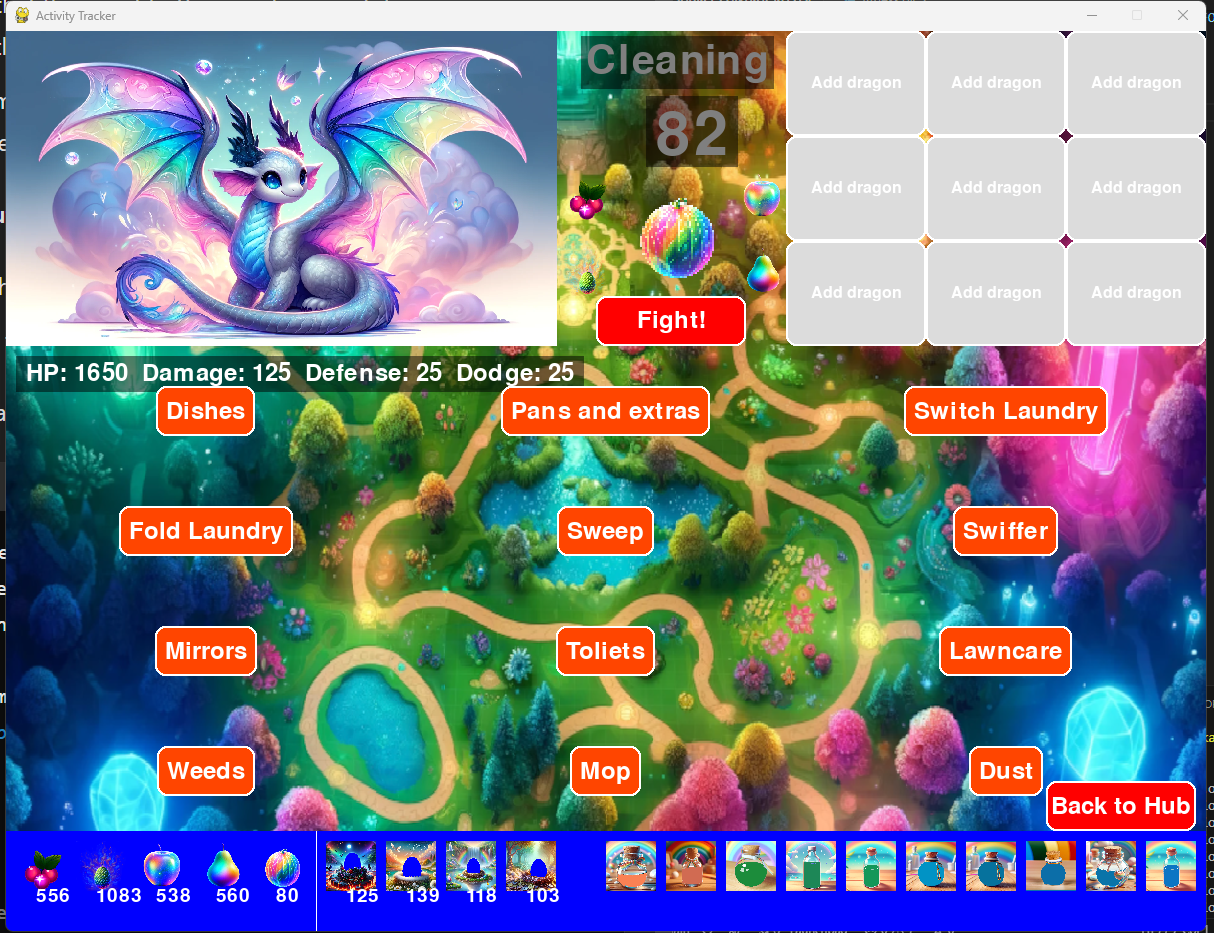
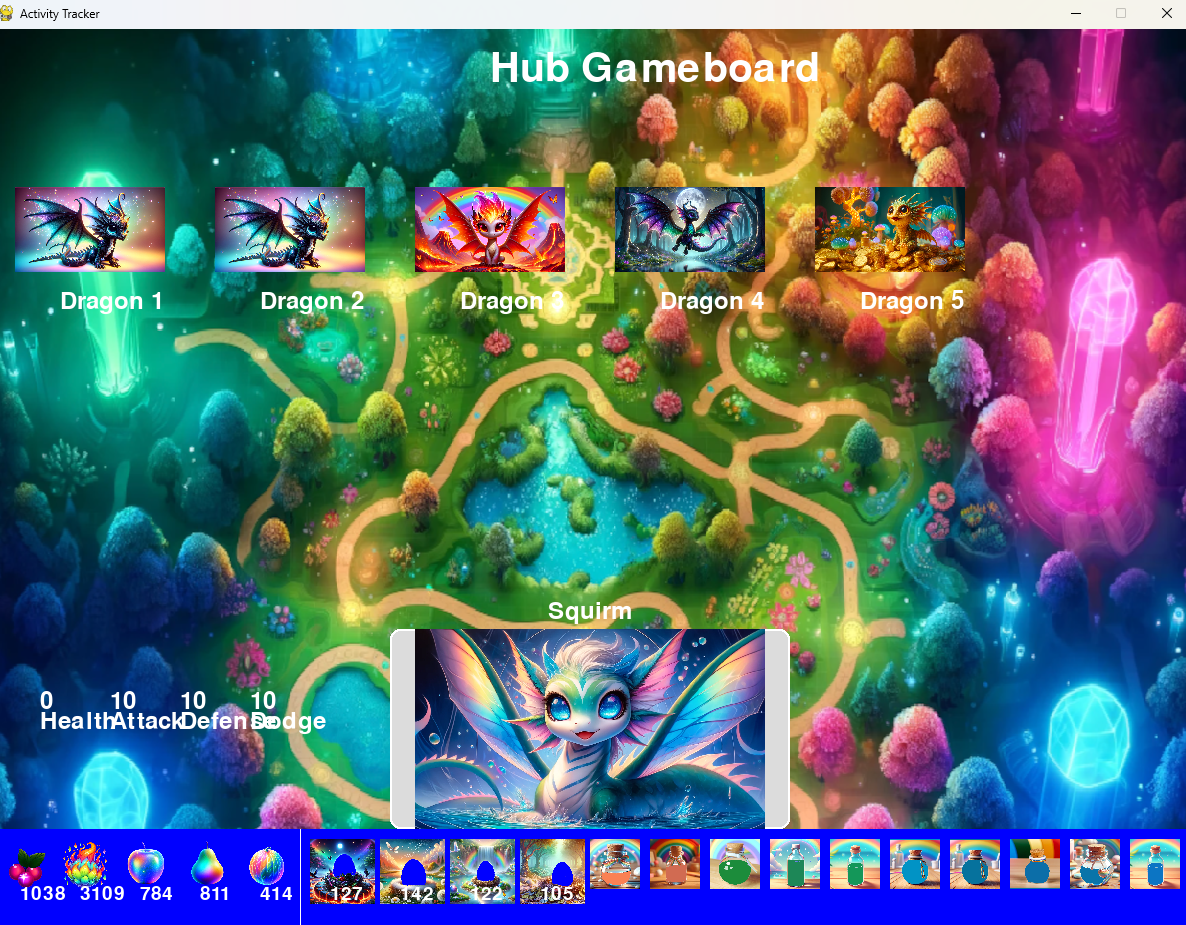
upgrade stats show up

diff --git a/fitness.py b/fitness.py
@@ -51,6 +51,8 @@ category_font = pygame.font.Font(None, 60)  # Larger font for category word
 token_font = pygame.font.Font(None, 90)  # Much larger font for player token count
 small_font = pygame.font.Font(None, 36)  # Smaller font for button text
 
+selected_dragon_for_upgrade = None  # Global variable to store the selected dragon
+
 def connect_db(db_name='save.db'):
     db_path = os.path.join(os.path.dirname(__file__), db_name)
     conn = sqlite3.connect(db_path)
@@ -71,8 +73,6 @@ def complete_daily_quest(quest_id):
     cursor.execute("UPDATE playerquests SET completed = 1, reset = date('now', '+1 day') WHERE ID = ?", (quest_id,))
     conn.commit()
     conn.close()
-
-
 
 def flag_dragon_aggressive(category):
     print(f"Category {category} is now aggressive!")
@@ -101,7 +101,6 @@ def load_boss_dragon_image(dragon_filename, max_height):
         logging.error(f"Error loading boss dragon image {dragon_image_path}: {e}")
         print(f"Error loading boss dragon image {dragon_image_path}: {e}")
         return pygame.Surface((max_height * aspect_ratio, max_height))  # Return a blank surface as a placeholder
-
 
 def draw_beveled_button_gradient(surface, rect, text, font, gradient_colors):
     outline_rect = rect.inflate(4, 4)
@@ -225,6 +224,7 @@ def load_and_resize_image_keeping_aspect(file_path, max_size):
         return pygame.Surface(max_size)
 
 def draw_hub_gameboard():
+    global selected_dragon_for_upgrade
     screen.fill(GREY)
     screen.blit(background, (0, 0))
     draw_text(screen, "Hub Gameboard", category_font, WHITE, (WIDTH // 2 - 100, 20))
@@ -242,87 +242,60 @@ def draw_hub_gameboard():
         draw_text(screen, f"Dragon {i+1}", small_font, WHITE, (pos[0] - 30, pos[1] + 60))
 
     draw_inventory(screen, inventory, egg_counts, inventory_slots)
+
+    # Increase the height of the Upgrade Dragon rectangle
+    upgrade_dragon_rect = pygame.Rect(WIDTH // 3, HEIGHT - 300, WIDTH // 3, 200)  # Adjusted height
+    draw_beveled_button(screen, upgrade_dragon_rect, LIGHT_GREY, "Upgrade Dragon", small_font)
+
+    # Display selected dragon's statistics
+    if selected_dragon_for_upgrade:
+        display_dragon_statistics(selected_dragon_for_upgrade, upgrade_dragon_rect)
+
     pygame.display.flip()
+    return upgrade_dragon_rect
 
-def handle_back_to_hub_click(mouse_x, mouse_y):
-    back_button_rect = pygame.Rect(WIDTH - 160, HEIGHT - 60, 150, 50)
-    return back_button_rect.collidepoint(mouse_x, mouse_y)
+def display_dragon_statistics(dragon, upgrade_dragon_rect):
+    name = dragon['petname'] if dragon['petname'] else dragon['dragon_name']
+    draw_text(screen, name, small_font, WHITE, (upgrade_dragon_rect.centerx - small_font.size(name)[0] // 2, upgrade_dragon_rect.y - 30))
 
-def remove_and_replace_quest(quest_id, category, displayed_quests):
-    conn = sqlite3.connect('save.db')
-    cursor = conn.cursor()
-    try:
-        cursor.execute("UPDATE playerquests SET tally = tally + 1 WHERE ID = ?", (quest_id,))
-        cursor.execute("UPDATE playerquests SET completed = 0, reset = NULL WHERE ID = ?", (quest_id,))
-        
-        displayed_quest_ids = set(q[0] for q in displayed_quests)
-        displayed_quest_descriptions = set(q[2] for q in displayed_quests)
-        
-        cursor.execute("SELECT ID, Category, Description, ChallengeRating, Reward, completed, tally FROM playerquests WHERE Category = ?", (category,))
-        all_cleaning_quests = cursor.fetchall()
-        
-        available_quests = [
-            quest for quest in all_cleaning_quests 
-            if quest[0] not in displayed_quest_ids and quest[2] not in displayed_quest_descriptions and quest[0] != quest_id
-        ]
-        
-        if not available_quests:
-            # Fallback to the original quest
-            new_quest = next((q for q in all_cleaning_quests if q[0] == quest_id), None)
-        else:
-            new_quest = random.choice(available_quests)
-        
-        conn.commit()
-    except sqlite3.Error as e:
-        new_quest = None
-    except Exception as e:
-        new_quest = None
-    finally:
-        conn.close()
-    
-    return new_quest
+    # Display dragon image within the upgrade rectangle
+    image_path = os.path.join(os.path.dirname(__file__), "dragons", dragon['filename'])
+    dragon_image = load_and_resize_image_keeping_aspect(image_path, (upgrade_dragon_rect.width, upgrade_dragon_rect.height))
+    image_rect = dragon_image.get_rect(center=upgrade_dragon_rect.center)
+    screen.blit(dragon_image, image_rect.topleft)
+
+    # Display stats above corresponding fruits
+    fruit_stat_mapping = {
+        'gleamberry': 'health',
+        'flamefruit': 'attack',
+        'shimmeringapple': 'defense',
+        'etherealpear': 'dodge',
+        # Add moonbeammelon later if needed
+    }
+
+    reduced_font = pygame.font.Font(None, 24)  # Reduced font size for stat labels
+    large_font = pygame.font.Font(None, 48)  # Larger font size for stat numbers
+
+    # Define positions for the stats
+    positions = {
+        'health': (5, HEIGHT - 110),
+        'attack': (65, HEIGHT - 110),
+        'defense': (125, HEIGHT - 110),
+        'dodge': (200, HEIGHT - 110)
+    }
+
+    for fruit, stat in fruit_stat_mapping.items():
+        stat_number = f"{dragon['stats'][stat]}"
+        stat_text = f"{stat.capitalize()}"
+        stat_pos = positions[stat]
+        draw_text(screen, stat_number, large_font, WHITE, (stat_pos[0] + 10, stat_pos[1] - 60))
+        draw_text(screen, stat_text, reduced_font, WHITE, (stat_pos[0], stat_pos[1] - 20))
 
 
-def handle_quest_click(category, mouse_x, mouse_y, displayed_quests):
-    quests_updated = False  # Flag to track if quests were updated
-    button_height = 50
-    grid_cols = 3
-    grid_rows = 4
-    total_grid_height = (HEIGHT - 100) * 0.6
-    total_grid_width = WIDTH
-    grid_height = total_grid_height // grid_rows
-    grid_width = total_grid_width // grid_cols
-    start_y = (HEIGHT - 100) * 0.45
+def draw_text(surface, text, font, color, pos):
+    text_surface = font.render(text, True, color)
+    surface.blit(text_surface, pos)
 
-    # Only handle clicks within the quest button area
-    if mouse_y < start_y or mouse_y > start_y + grid_rows * grid_height:
-        return displayed_quests, quests_updated
-
-    for i, quest in enumerate(displayed_quests):
-        text_surface = small_font.render(quest[2], True, WHITE)
-        button_width = text_surface.get_width() + 20
-        x = (i % grid_cols) * grid_width + (grid_width - button_width) // 2
-        y = start_y + (i // grid_cols) * grid_height + (grid_height - button_height) // 2
-        rect = pygame.Rect(x, y, button_width, button_height)
-
-        if rect.collidepoint(mouse_x, mouse_y):
-            print(f"Quest '{quest[2]}' clicked!")
-            update_inventory(f"{quest[3]} {CATEGORY_INFO[category]['fruit']}")
-            additional_fruits = random.sample(list(CATEGORY_INFO.values()), k=quest[3] // 2)
-            for fruit_info in additional_fruits:
-                update_inventory(f"1 {fruit_info['fruit']}")
-            player_tokens[category] += quest[3]
-            if category == 'daily':
-                complete_daily_quest(quest[0])
-            else:
-                new_quest = remove_and_replace_quest(quest[0], category, displayed_quests)
-                if new_quest:
-                    displayed_quests[i] = new_quest
-                    quests_updated = True  # Set the flag to True when quests are updated
-                else:
-                    print(f"Failed to replace quest {quest[0]}")
-            break
-    return displayed_quests, quests_updated
 
 def calculate_dragon_stats(primary_trait, secondary_traits, nurture_trait=None):
     stats = {
@@ -382,6 +355,106 @@ def apply_bonuses(stats, is_boss=False, tier=1, dragon_id=None):
     return stats
 
 
+def handle_upgrade_dragon_click(mouse_x, mouse_y, upgrade_dragon_rect, player_dragons):
+    if upgrade_dragon_rect.collidepoint(mouse_x, mouse_y):
+        dragon_id = display_player_dragon_selection(player_dragons)
+        if dragon_id:
+            return load_player_dragon(dragon_id)
+    return None
+
+def spend_fruit_and_update_stats(fruit_type, dragon):
+    if fruit_type in CATEGORY_INFO:
+        trait = CATEGORY_INFO[fruit_type]['fruit']
+        if trait in fruit_traits_with_stats:
+            stat_to_increase = fruit_traits_with_stats[trait]
+            dragon['stats'][stat_to_increase] = min(dragon['stats'][stat_to_increase] + 1, 100)
+            update_dragon_stats_in_db(dragon['id'], dragon['stats'])
+
+def update_dragon_stats_in_db(dragon_id, stats):
+    conn = connect_db('save.db')
+    cursor = conn.cursor()
+    cursor.execute("""
+        UPDATE hatcheddragons 
+        SET bonus_health = ?, bonus_attack = ?, bonus_defense = ?, bonus_dodge = ? 
+        WHERE id = ?
+    """, (stats['health'], stats['attack'], stats['defense'], stats['dodge'], dragon_id))
+    conn.commit()
+    conn.close()
+
+def remove_and_replace_quest(quest_id, category, displayed_quests):
+    conn = sqlite3.connect('save.db')
+    cursor = conn.cursor()
+    try:
+        cursor.execute("UPDATE playerquests SET tally = tally + 1 WHERE ID = ?", (quest_id,))
+        cursor.execute("UPDATE playerquests SET completed = 0, reset = NULL WHERE ID = ?", (quest_id,))
+        
+        displayed_quest_ids = set(q[0] for q in displayed_quests)
+        displayed_quest_descriptions = set(q[2] for q in displayed_quests)
+        
+        cursor.execute("SELECT ID, Category, Description, ChallengeRating, Reward, completed, tally FROM playerquests WHERE Category = ?", (category,))
+        all_cleaning_quests = cursor.fetchall()
+        
+        available_quests = [
+            quest for quest in all_cleaning_quests 
+            if quest[0] not in displayed_quest_ids and quest[2] not in displayed_quest_descriptions and quest[0] != quest_id
+        ]
+        
+        if not available_quests:
+            # Fallback to the original quest
+            new_quest = next((q for q in all_cleaning_quests if q[0] == quest_id), None)
+        else:
+            new_quest = random.choice(available_quests)
+        
+        conn.commit()
+    except sqlite3.Error as e:
+        new_quest = None
+    except Exception as e:
+        new_quest = None
+    finally:
+        conn.close()
+    
+    return new_quest
+
+def handle_quest_click(category, mouse_x, mouse_y, displayed_quests):
+    quests_updated = False  # Flag to track if quests were updated
+    button_height = 50
+    grid_cols = 3
+    grid_rows = 4
+    total_grid_height = (HEIGHT - 100) * 0.6
+    total_grid_width = WIDTH
+    grid_height = total_grid_height // grid_rows
+    grid_width = total_grid_width // grid_cols
+    start_y = (HEIGHT - 100) * 0.45
+
+    # Only handle clicks within the quest button area
+    if mouse_y < start_y or mouse_y > start_y + grid_rows * grid_height:
+        return displayed_quests, quests_updated
+
+    for i, quest in enumerate(displayed_quests):
+        text_surface = small_font.render(quest[2], True, WHITE)
+        button_width = text_surface.get_width() + 20
+        x = (i % grid_cols) * grid_width + (grid_width - button_width) // 2
+        y = start_y + (i // grid_cols) * grid_height + (grid_height - button_height) // 2
+        rect = pygame.Rect(x, y, button_width, button_height)
+
+        if rect.collidepoint(mouse_x, mouse_y):
+            print(f"Quest '{quest[2]}' clicked!")
+            update_inventory(f"{quest[3]} {CATEGORY_INFO[category]['fruit']}")
+            additional_fruits = random.sample(list(CATEGORY_INFO.values()), k=quest[3] // 2)
+            for fruit_info in additional_fruits:
+                update_inventory(f"1 {fruit_info['fruit']}")
+            player_tokens[category] += quest[3]
+            if category == 'daily':
+                complete_daily_quest(quest[0])
+            else:
+                new_quest = remove_and_replace_quest(quest[0], category, displayed_quests)
+                if new_quest:
+                    displayed_quests[i] = new_quest
+                    quests_updated = True  # Set the flag to True when quests are updated
+                else:
+                    print(f"Failed to replace quest {quest[0]}")
+            break
+    return displayed_quests, quests_updated
 
 def initialize_player_dragons():
     player_dragons = [None] * 9
@@ -489,7 +562,7 @@ def flip_dragon_image(image, facing_direction, target_direction):
         return image
     else:
         return pygame.transform.flip(image, True, False)
-    
+
 def draw_player_dragon_slots(player_dragons):
     grid_start_x = WIDTH * 0.65
     grid_start_y = 0
@@ -556,6 +629,7 @@ def game_loop():
     boss_dragon_stats = None
     player_dragons = initialize_player_dragons()
     displayed_quests = []  # Initialize an empty list for displayed quests
+    global selected_dragon_for_upgrade
     
     while running:
         for event in pygame.event.get():
@@ -564,24 +638,8 @@ def game_loop():
             elif event.type == pygame.MOUSEBUTTONDOWN:
                 mouse_x, mouse_y = event.pos
                 if current_screen == 'hub':
-                    for i, pos in enumerate([(100, 200), (300, 200), (500, 200), (700, 200), (900, 200)]):
-                        dragon_image_file = selected_dragons[i]
-                        dragon_image_path = os.path.join(os.path.dirname(__file__), "dragons", dragon_image_file)
-                        dragon_image = load_and_resize_image_keeping_aspect(dragon_image_path, (150, 150))
-                        image_rect = dragon_image.get_rect(center=pos)
-                        if image_rect.collidepoint(mouse_x, mouse_y):
-                            selected_area = list(CATEGORY_INFO.keys())[i]
-                            boss_dragon_filename = dragon_image_file
-                            primary_trait = "Mystical"
-                            secondary_traits = ["Distraction", "Courageous", "Fearsome"]
-                            nurture_trait = None
-                            boss_dragon_stats = calculate_dragon_stats(primary_trait, secondary_traits, nurture_trait)
-                            boss_dragon_stats = apply_bonuses(boss_dragon_stats, is_boss=True, tier=1)
-                            all_quests = load_quests(selected_area)
-                            displayed_quests = random.sample(all_quests, min(12, len(all_quests)))  # Randomly select 12 quests or fewer if there are less than 12
-                            #print(f"Switched to area screen: {selected_area}, Loaded quests: {displayed_quests}")
-                            current_screen = 'area'
-                            break
+                    upgrade_dragon_rect = draw_hub_gameboard()
+                    selected_dragon_for_upgrade = handle_upgrade_dragon_click(mouse_x, mouse_y, upgrade_dragon_rect, player_dragons)
                 elif current_screen == 'area':
                     if handle_back_to_hub_click(mouse_x, mouse_y):
                         current_screen = 'hub'
@@ -595,10 +653,10 @@ def game_loop():
                         handle_player_dragon_slot_click(mouse_x, mouse_y, player_dragons)
                         if quests_updated:
                             #print(f"Updated quests: {displayed_quests}")
-                            draw_area_gameboard(selected_area, boss_dragon_filename, boss_dragon_stats, player_dragons, displayed_quests)  # Redraw gameboard with updated quests
+                            draw_area_gameboard(selected_area, boss_dragon_filename, boss_dragon_stats, player_dragons, displayed_quests)
 
         if current_screen == 'hub':
-            draw_hub_gameboard()
+            upgrade_dragon_rect = draw_hub_gameboard()
         elif current_screen == 'area' and selected_area is not None:
             fight_button_rect = draw_area_gameboard(selected_area, boss_dragon_filename, boss_dragon_stats, player_dragons, displayed_quests)
 

diff --git a/combat.py b/combat.py
@@ -1,3 +1,4 @@
+
 def calculate_boss_stats(stats):
     base_hp = 1000
     base_damage = 100
